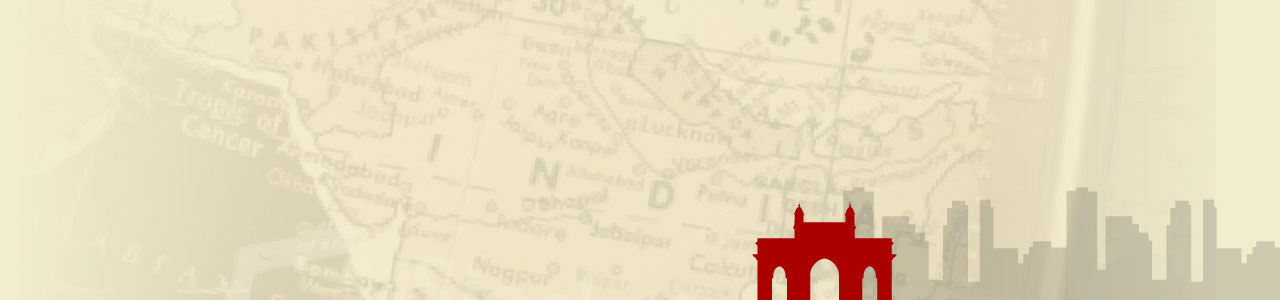
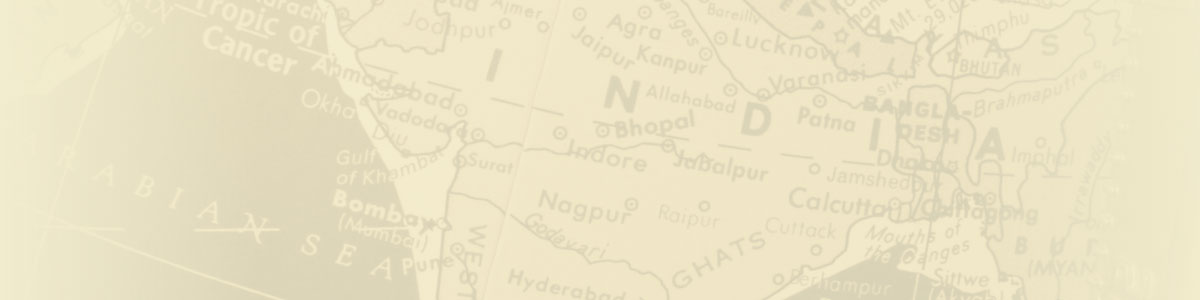
Header: improvements to background in regular & mobile layouts

Changed region(s): [[0.5858, 0.6, 1.0, 1.0], [0.6475, 0.18, 0.6783, 0.21], [0.2775, 0.9, 0.3083, 0.93]]

diff --git a/2013/scss/header.scss b/2013/scss/header.scss
@@ -1,12 +1,13 @@
 #header{
   padding: 20px;
   border-bottom: solid 4px $red;
-  background: #F2ECCE url('images/header.jpg') no-repeat bottom center;
+  background: #F2ECCE url('images/header.jpg') no-repeat center center;
+  background-size: auto 100%;
 
   h1{
     a{color: $red; text-decoration: none;}
     a span{color: $gray-dark;}
-  } 
+  }
 
   @media screen and (min-width: 700px){
     padding: 40px;
@@ -21,6 +22,7 @@
   }
 
   @media screen and (min-width: 940px){
+    background-size: 100% auto;
     padding: 60px;
     h2{margin: -20px 0 0 200px;}
     h3{margin-top: -72px; text-align: right;}
